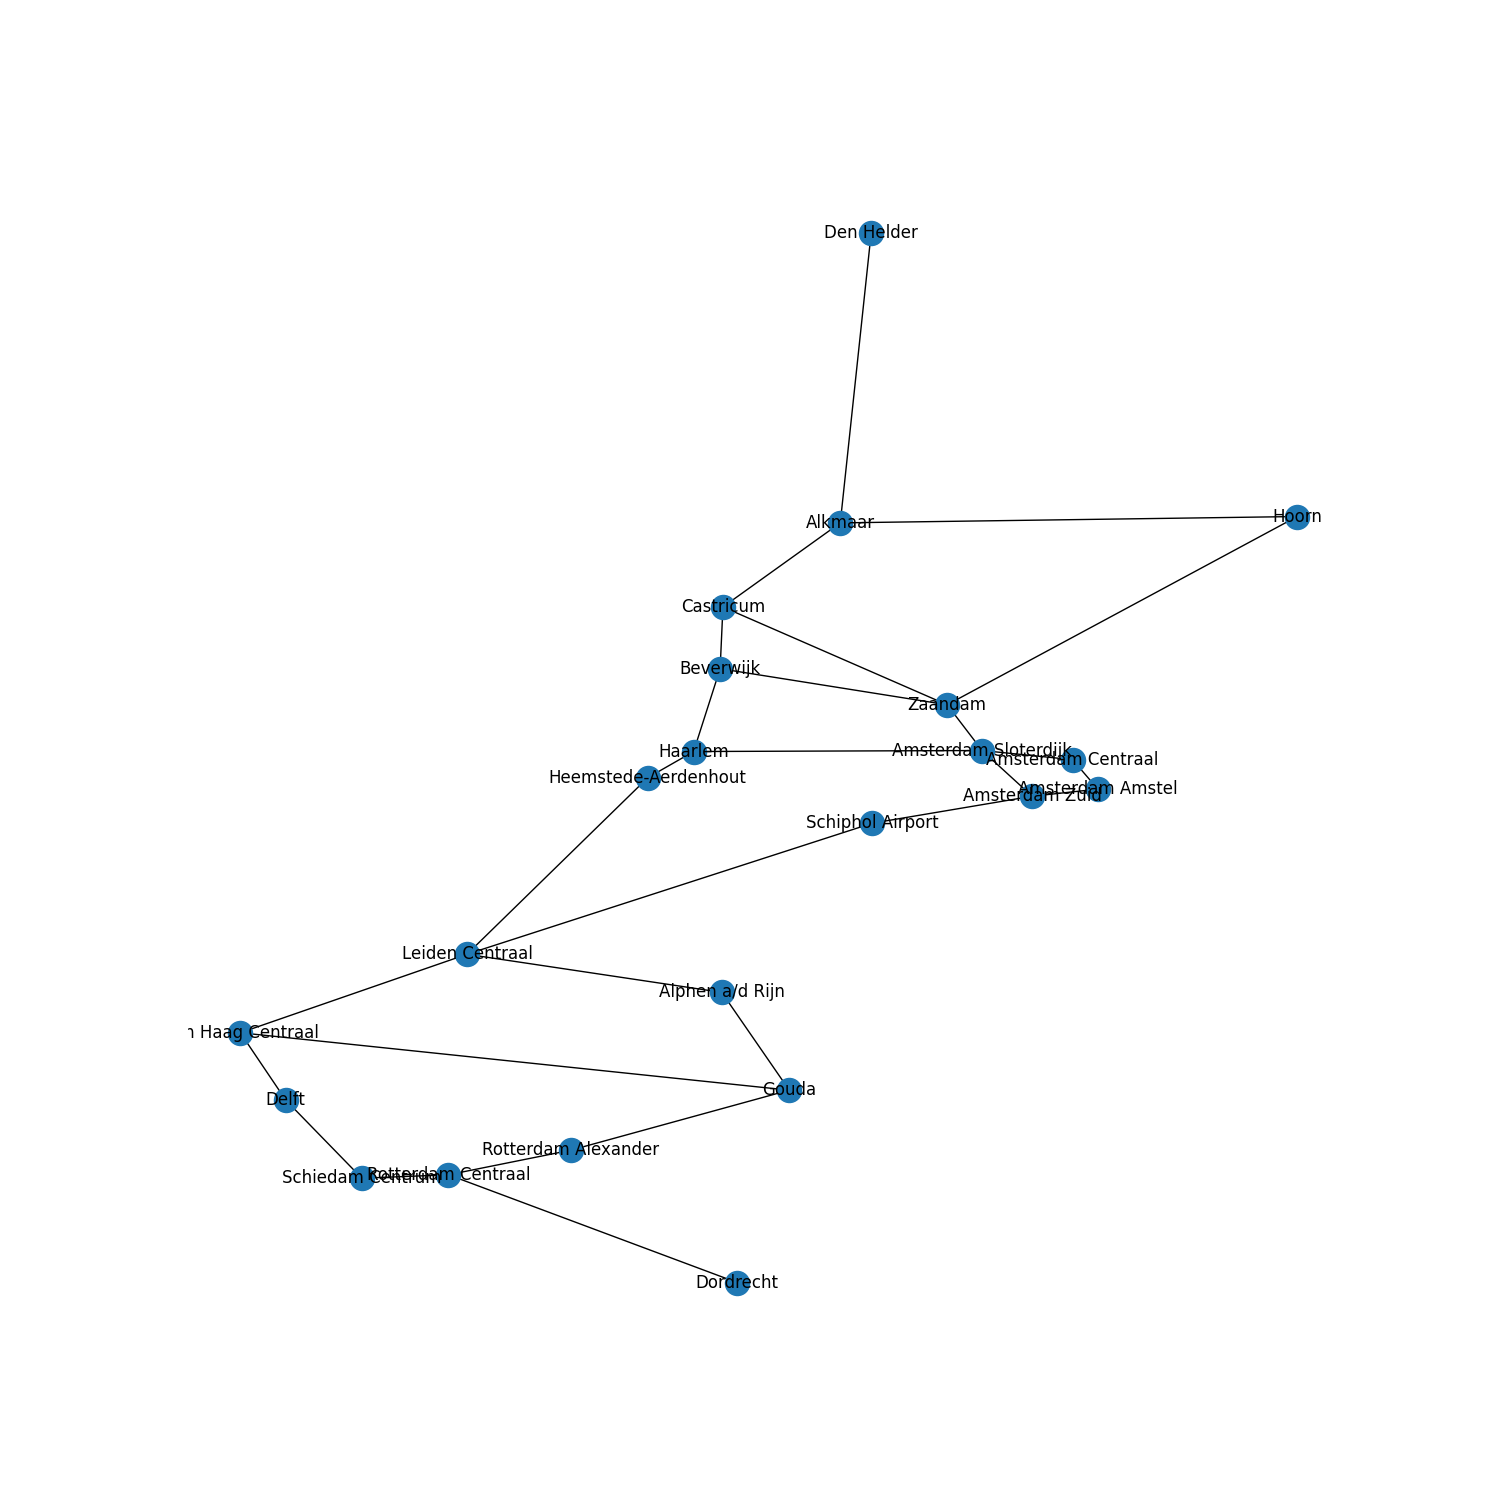
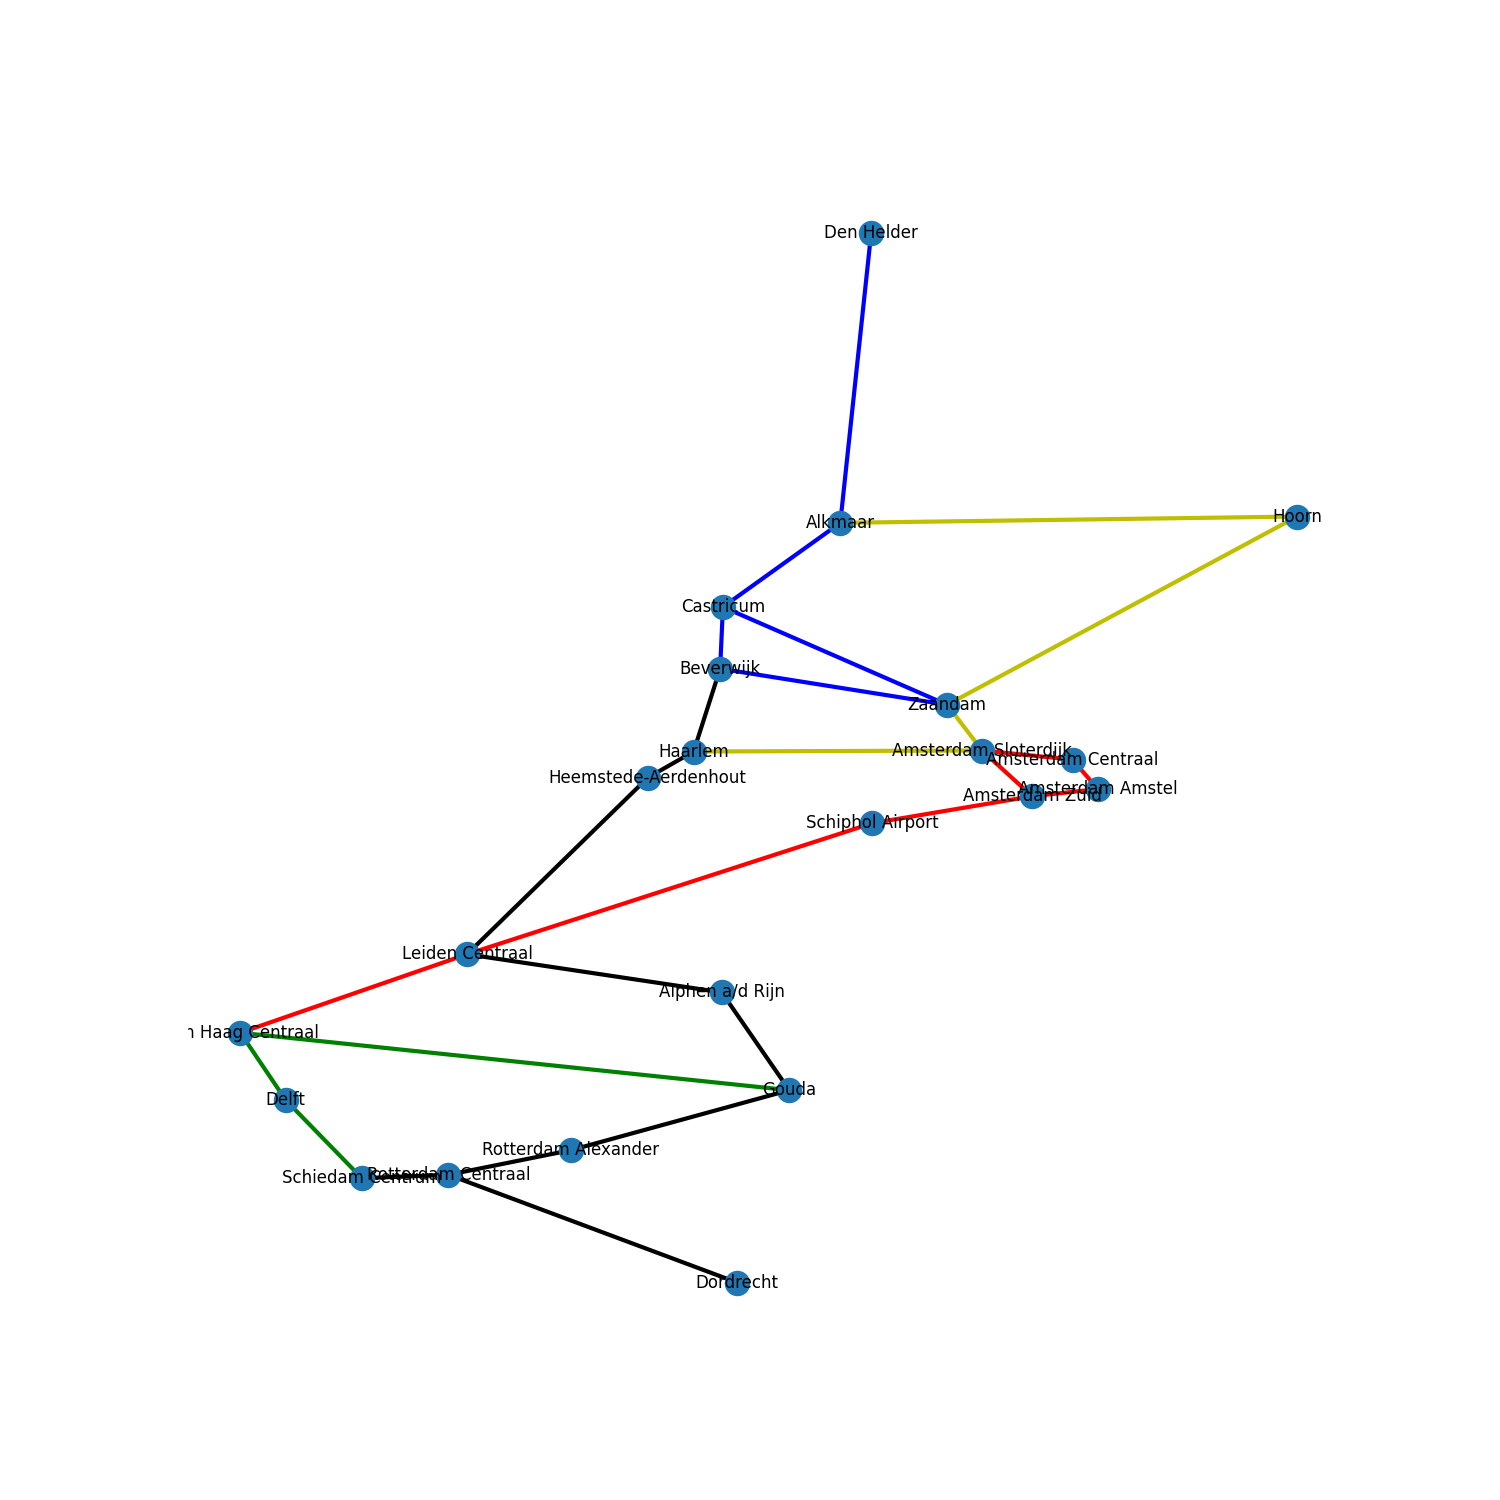
Elk traject kan nu ingekleurd worden op de kaart

diff --git a/code/visualisation/graph.py b/code/visualisation/graph.py
@@ -3,6 +3,7 @@
 # from code.classes import station, load
 import matplotlib.pyplot as plt
 import networkx as nx
+import random
 
 
 def get_map(data, con):
@@ -13,38 +14,51 @@ def get_map(data, con):
     pos = data.get_cor()
     P.add_nodes_from(pos)
     
-    edges = []
-    for key, value in data.get_con().items():
-        tup = tuple(value)
-        for i in tup:
-            e = []
-            e.append(key)
-            e.append(i)
-            e= tuple(e)
-            edges.append(e)
-    P.add_edges_from(edges)
+    # edges = []
+    # for key, value in data.get_con().items():
+    #     tup = tuple(value)
+    #     for i in tup:
+    #         e = []
+    #         e.append(key)
+    #         e.append(i)
+    #         e= tuple(e)
+    #         edges.append(e)
+    # P.add_edges_from(edges)
 
 
-    x = []
-    for station in lijnvoering:
-        tup = station
+    some_colors = ["r", "b", "g", "y","c","m","y","k"]
+    
+    for a_traject in lijnvoering:
 
-        for i in range(0, len(tup)):
-            if i == len(tup) - 1:
+        traject = []
+ 
+        for i in range(0, len(a_traject)):
+            
+            if i == len(a_traject) - 1:
                 break
 
-            connection1 = tup[i]
-            connection2 = tup[i+1]
+            connection1 = a_traject[i]
+            connection2 = a_traject[i+1]
+            connection = (connection1, connection2)
+            traject.append(connection)
 
-            connection = [connection1,connection2]
-            x.append(connection)
-    print(x)
-    print(lijnvoering)
+
+        P.add_edges_from(traject, color= random.choice(list(some_colors)), weight=3)
     
 
+    # nx.draw_networkx_edges(P, pos, edgelist=x , edge_color='r')
+
+
+    # print(x)
+    print("---")
+    print(lijnvoering)
+    #https://stackoverflow.com/questions/25639169/networkx-change-color-width-according-to-edge-attributes-inconsistent-result
+    edges = P.edges()
+    colors = [P[u][v]['color'] for u,v in edges]
+    weights = [P[u][v]['weight'] for u,v in edges]
     
     fig,ax = plt.subplots(1, figsize = (15,15))
-    nx.draw(P, pos, with_labels = True)
+    nx.draw(P, pos,with_labels = True, edge_color=colors, width=weights)
     plt.show()
     plt.savefig('data/quality/map.png')
     # return P.edges()

diff --git a/code/algorithm/randomize.py b/code/algorithm/randomize.py
@@ -76,6 +76,10 @@ class Random():
                 time += get_traject[1]
                 loops += get_traject[2]
 
+                # used_con = self.functions.get_remain_con(self.trajectconnection.items())
+                # if used_con == 18:
+                #     break
+
             self.trajectconnection = copy.deepcopy(self.connection)
             if len(all_traject) > self.max_traject:
                 continue
@@ -113,7 +117,7 @@ class Random():
         df = pd.DataFrame(data, columns = ['q'])
         df.to_csv(filename)
 
-        print(f"loops random: {total_loops}")
-        return q
+        # print(f"loops random: {total_loops}")
+        return print(f"loops randomize: {total_loops}")
 
 

diff --git a/code/algorithm/greedy.py b/code/algorithm/greedy.py
@@ -86,6 +86,10 @@ class Greedy():
                 all_traject.append(get_traject[0])
                 time += get_traject[1]
                 loops += get_traject[2]
+                # used_con = self.functions.get_remain_con(self.trajectconnection.items())
+                # if used_con == 18:
+                #     break
+
             self.trajectconnection = copy.deepcopy(self.connection)
 
             if len(all_traject) > self.max_traject:
@@ -124,5 +128,5 @@ class Greedy():
         df = pd.DataFrame(data, columns = ['q'])
         df.to_csv(filename)
 
-        print(f"loops greedy: {total_loops}")
-        return q
+        
+        return print(f"loops greedy: {total_loops}")

diff --git a/main.py b/main.py
@@ -40,13 +40,13 @@ if __name__ == "__main__":
     random1 = randomize.Random(data, max_time, max_traject)
     # print(random1.get_traject())
     # print(random1.make_lijnvoering())
-    # print(random1.get_solution())
+    # random1.get_solution()
     # ------------------------------------------------------------
 
 
     # ---------------------------- GREEDY ------------------------
     # greedy1 = greedy.Greedy(data, max_time, max_traject)
-    # print(greedy1.get_solution())
+    # greedy1.get_solution()
     # ------------------------------------------------------------
 
     # print(data.all_con())
